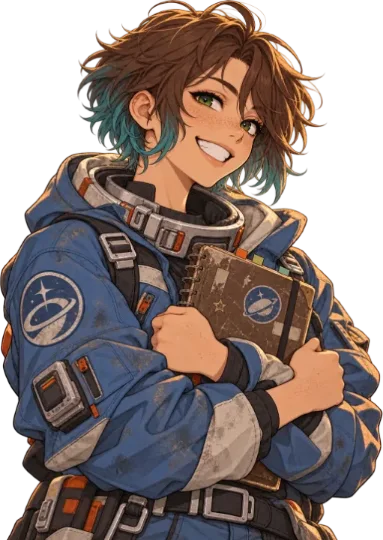
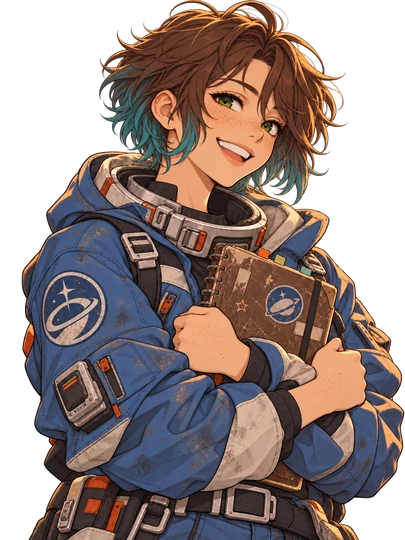
Add Teo and Juno expression portraits
Teo's four transparent portraits and Juno's (background removed from
the gray originals) replace their default art, with mood tables for all
their lines. Mood tables are now kept per character, and static check
S13 verifies each tagged line is spoken by that character.

Claude-Session: https://claude.ai/code/session_01E6DFL9GjyazsKRWf9Q9tqJ

diff --git a/src/data/moods.ts b/src/data/moods.ts
@@ -4,8 +4,10 @@
 export type Mood = 'angry' | 'sad' | 'joy';
 
 const A = 'angry', S = 'sad', J = 'joy';
-export const MOODS: Record<string, Record<number, Mood>> = {
-  // ── 瑪拉 ──
+type Table = Record<string, Record<number, Mood>>;
+
+// 瑪拉（預設：嘴角一勾的冷笑）
+const MARA: Table = {
   'c1-open': { 4: S },
   'c1-signal': { 1: S, 4: S, 6: A },
   'c1-limit': { 3: S },
@@ -50,5 +52,101 @@ export const MOODS: Record<string, Record<number, Mood>> = {
   'c6-blocked': { 4: A, 10: A, 18: J },
   'c6-end': { 8: J, 14: J },
 };
+
+// 提歐（預設：自信的微笑）
+const TEO: Table = {
+  'c1-scrubber': { 0: J },
+  'c1-f8': { 2: S, 5: S },
+  'c1-signal': { 0: A, 5: A },
+  'c1-limit': { 0: S, 2: A },
+  'c2-open': { 3: A },
+  'c2-ines': { 6: A },
+  'c2-elec-i': { 1: A, 3: S },
+  'c2-upgrade': { 1: A, 3: A },
+  'c2-lounge': { 1: S },
+  'c2-end': { 2: S },
+  'c3-mine': { 1: J, 3: S },
+  'c3-forge': { 0: S, 3: A },
+  'c3-rail': { 2: A },
+  'c3-exp1': { 10: A },
+  'c3-wheezy': { 3: S, 5: S },
+  'c4-synth': { 2: S, 10: A },
+  'c4-warn': { 3: A },
+  'c4-raid1': { 5: A },
+  'c4-memorial': { 2: S },
+  'c4-teach': { 0: A },
+  'c4-sefa': { 5: A },
+  'c4-hydro': { 1: S, 3: A },
+  'c5-open': { 1: A },
+  'c5-crowd': { 12: A },
+  'c5-voss': { 2: A, 4: A, 8: A, 11: S, 13: A },
+  'c5-debate': { 1: S },
+  'c5-corp-help': { 3: A },
+  'c5-rifle': { 3: A },
+  'c5-commando': { 1: S },
+  'c5-pattern': { 6: S },
+  'c6-truth': { 7: A },
+  'c6-debate': { 10: A },
+  'c6-blocked': { 2: A },
+  'c6-leave': { 5: S },
+  'c6-stay': { 6: S, 8: J },
+};
+
+// 朱諾（預設：開朗的笑容；她難過、緊張的時候比較多，所以標得多）
+const JUNO: Table = {
+  'c1-open': { 3: S },
+  'c1-ls3': { 0: S },
+  'c1-scrubber': { 1: S },
+  'c1-will': { 0: J },
+  'c1-coaster': { 0: J },
+  'c1-f8': { 4: S },
+  'c1-signal': { 2: S, 3: S },
+  'hypoxia': { 1: S },
+  'c1-end': { 4: S },
+  'c2-open': { 0: J, 2: S },
+  'c2-elec-i': { 5: J },
+  'c2-upgrade': { 5: J, 7: J },
+  'c2-pop10': { 0: J },
+  'c2-rescue': { 4: S },
+  'c2-lounge': { 0: J },
+  'c2-end': { 3: J },
+  'c3-mine': { 2: S },
+  'c3-rail': { 0: J },
+  'c3-exp1': { 1: J, 8: A },
+  'c3-resonance': { 0: J },
+  'c3-rollcall': { 2: A, 4: S },
+  'c3-outpost': { 0: S, 1: A, 5: S },
+  'c4-open': { 3: J },
+  'c4-synth': { 6: J, 8: A },
+  'c4-warn': { 0: A, 2: A },
+  'c4-raid1': { 3: S, 4: S },
+  'c4-memorial': { 0: S, 6: S },
+  'c4-sefa': { 3: A },
+  'c4-guard': { 2: S },
+  'c4-med': { 3: A },
+  'c4-hydro': { 0: J },
+  'c4-end': { 3: S, 5: A },
+  'c5-open': { 0: A },
+  'c5-crowd': { 1: A, 3: S, 6: S },
+  'c5-charter': { 3: A, 8: S },
+  'c5-debate': { 4: S, 6: S },
+  'c5-voss-leave': { 7: S },
+  'c5-resist': { 5: S, 11: S, 14: S },
+  'c5-corp-help': { 0: A },
+  'c5-alliance1': { 0: J },
+  'c5-commando': { 0: J },
+  'c6-open': { 0: J, 4: S, 6: J },
+  'c6-beacon1': { 1: A, 5: S },
+  'c6-lastlight': { 0: S, 2: S, 4: S, 6: S, 14: S },
+  'c6-debate': { 11: S },
+  'c6-leave': { 4: S, 7: J },
+  'c6-blocked': { 9: A, 12: S, 13: A },
+};
+
+/** 各角色的表情表（靜態檢查用來確認標的台詞真的是那個角色說的） */
+export const MOOD_TABLES: Record<string, Table> = { mara: MARA, teo: TEO, juno: JUNO };
+
+export const MOODS: Table = {};
+for (const t of Object.values(MOOD_TABLES)) for (const [id, m] of Object.entries(t)) MOODS[id] = { ...MOODS[id], ...m };
 
 export const lineMood = (scene: string, line: number): Mood | undefined => MOODS[scene]?.[line];

diff --git a/tests/static.ts b/tests/static.ts
@@ -11,7 +11,7 @@ import { RESEARCH_DEFS } from '../src/engine/formulas';
 import { stepFacing } from '../src/art/facing.js';
 import { patrolAt, ROUTES as ROADS } from '../src/scene/layout';
 import { PACKS } from '../src/i18n/locales';
-import { MOODS } from '../src/data/moods';
+import { MOOD_TABLES } from '../src/data/moods';
 import { existsSync } from 'fs';
 
 const results: { id: string; name: string; ok: boolean; info: string }[] = [];
@@ -155,17 +155,18 @@ check('S12', '德、日、西、葡翻譯：介面與劇情齊全、句數一致
   return errs;
 });
 
-check('S13', '表情標記都對到存在的台詞，而且標的是有立繪的角色；每張表情圖都有對應的預設立繪', () => {
+check('S13', '表情標記都對到存在的台詞，而且真的是那個角色說的；每張表情圖都有對應的預設立繪', () => {
   const errs: string[] = [];
   const CHARS = ['mara', 'teo', 'juno', 'ines', 'sefa', 'voss', 'calder'];
-  for (const [id, m] of Object.entries(MOODS)) {
+  for (const [who, table] of Object.entries(MOOD_TABLES)) for (const [id, m] of Object.entries(table)) {
     const sc = SCENES[id];
     if (!sc) { errs.push(`沒有 ${id} 這段對話`); continue; }
     for (const i of Object.keys(m)) {
       const line = sc.lines[+i];
       if (!line) errs.push(`${id}#${i} 沒有這句`);
-      else if (!CHARS.includes(line[0])) errs.push(`${id}#${i} 是 ${line[0]}（沒有立繪）`);
+      else if (line[0] !== who) errs.push(`${id}#${i} 是 ${line[0]} 說的，卻標在 ${who} 的表情表`);
     }
+    if (!CHARS.includes(who)) errs.push(`${who} 沒有立繪`);
   }
   for (const c of CHARS) for (const mood of ['angry', 'sad', 'joy'])
     if (existsSync(`src/assets/portraits/${c}-${mood}.webp`) && !existsSync(`src/assets/portraits/${c}.webp`)) errs.push(`${c} 有 ${mood} 表情但沒有預設立繪`);

diff --git a/README.md b/README.md
@@ -17,7 +17,8 @@
 - 哪句用哪個表情寫在 `src/data/moods.ts`（場景 id → 台詞編號 → 表情），不動劇本和翻譯檔；沒標或沒有那張圖就用預設立繪，可以一個角色一個角色補
 - 同一個角色連續說話時只換臉、不重播進場動畫；靜態檢查 S13 確認表情都標在存在、而且有立繪的台詞上
 - 出圖規格：1024×1536、透明背景、四張同一姿勢（預設／生氣／難過／大笑），放進遊戲時縮到高 540
-- 目前完成：瑪拉
+- 表情表按角色分開寫（`MOOD_TABLES`），S13 會確認標的台詞真的是那個角色說的
+- 目前完成：瑪拉、提歐、朱諾（朱諾的原圖是灰底，用程式去背：從四邊淹沒背景色，再補掉被頭髮圍住的背景小洞）
 
 ## v0.69：多語系
 
